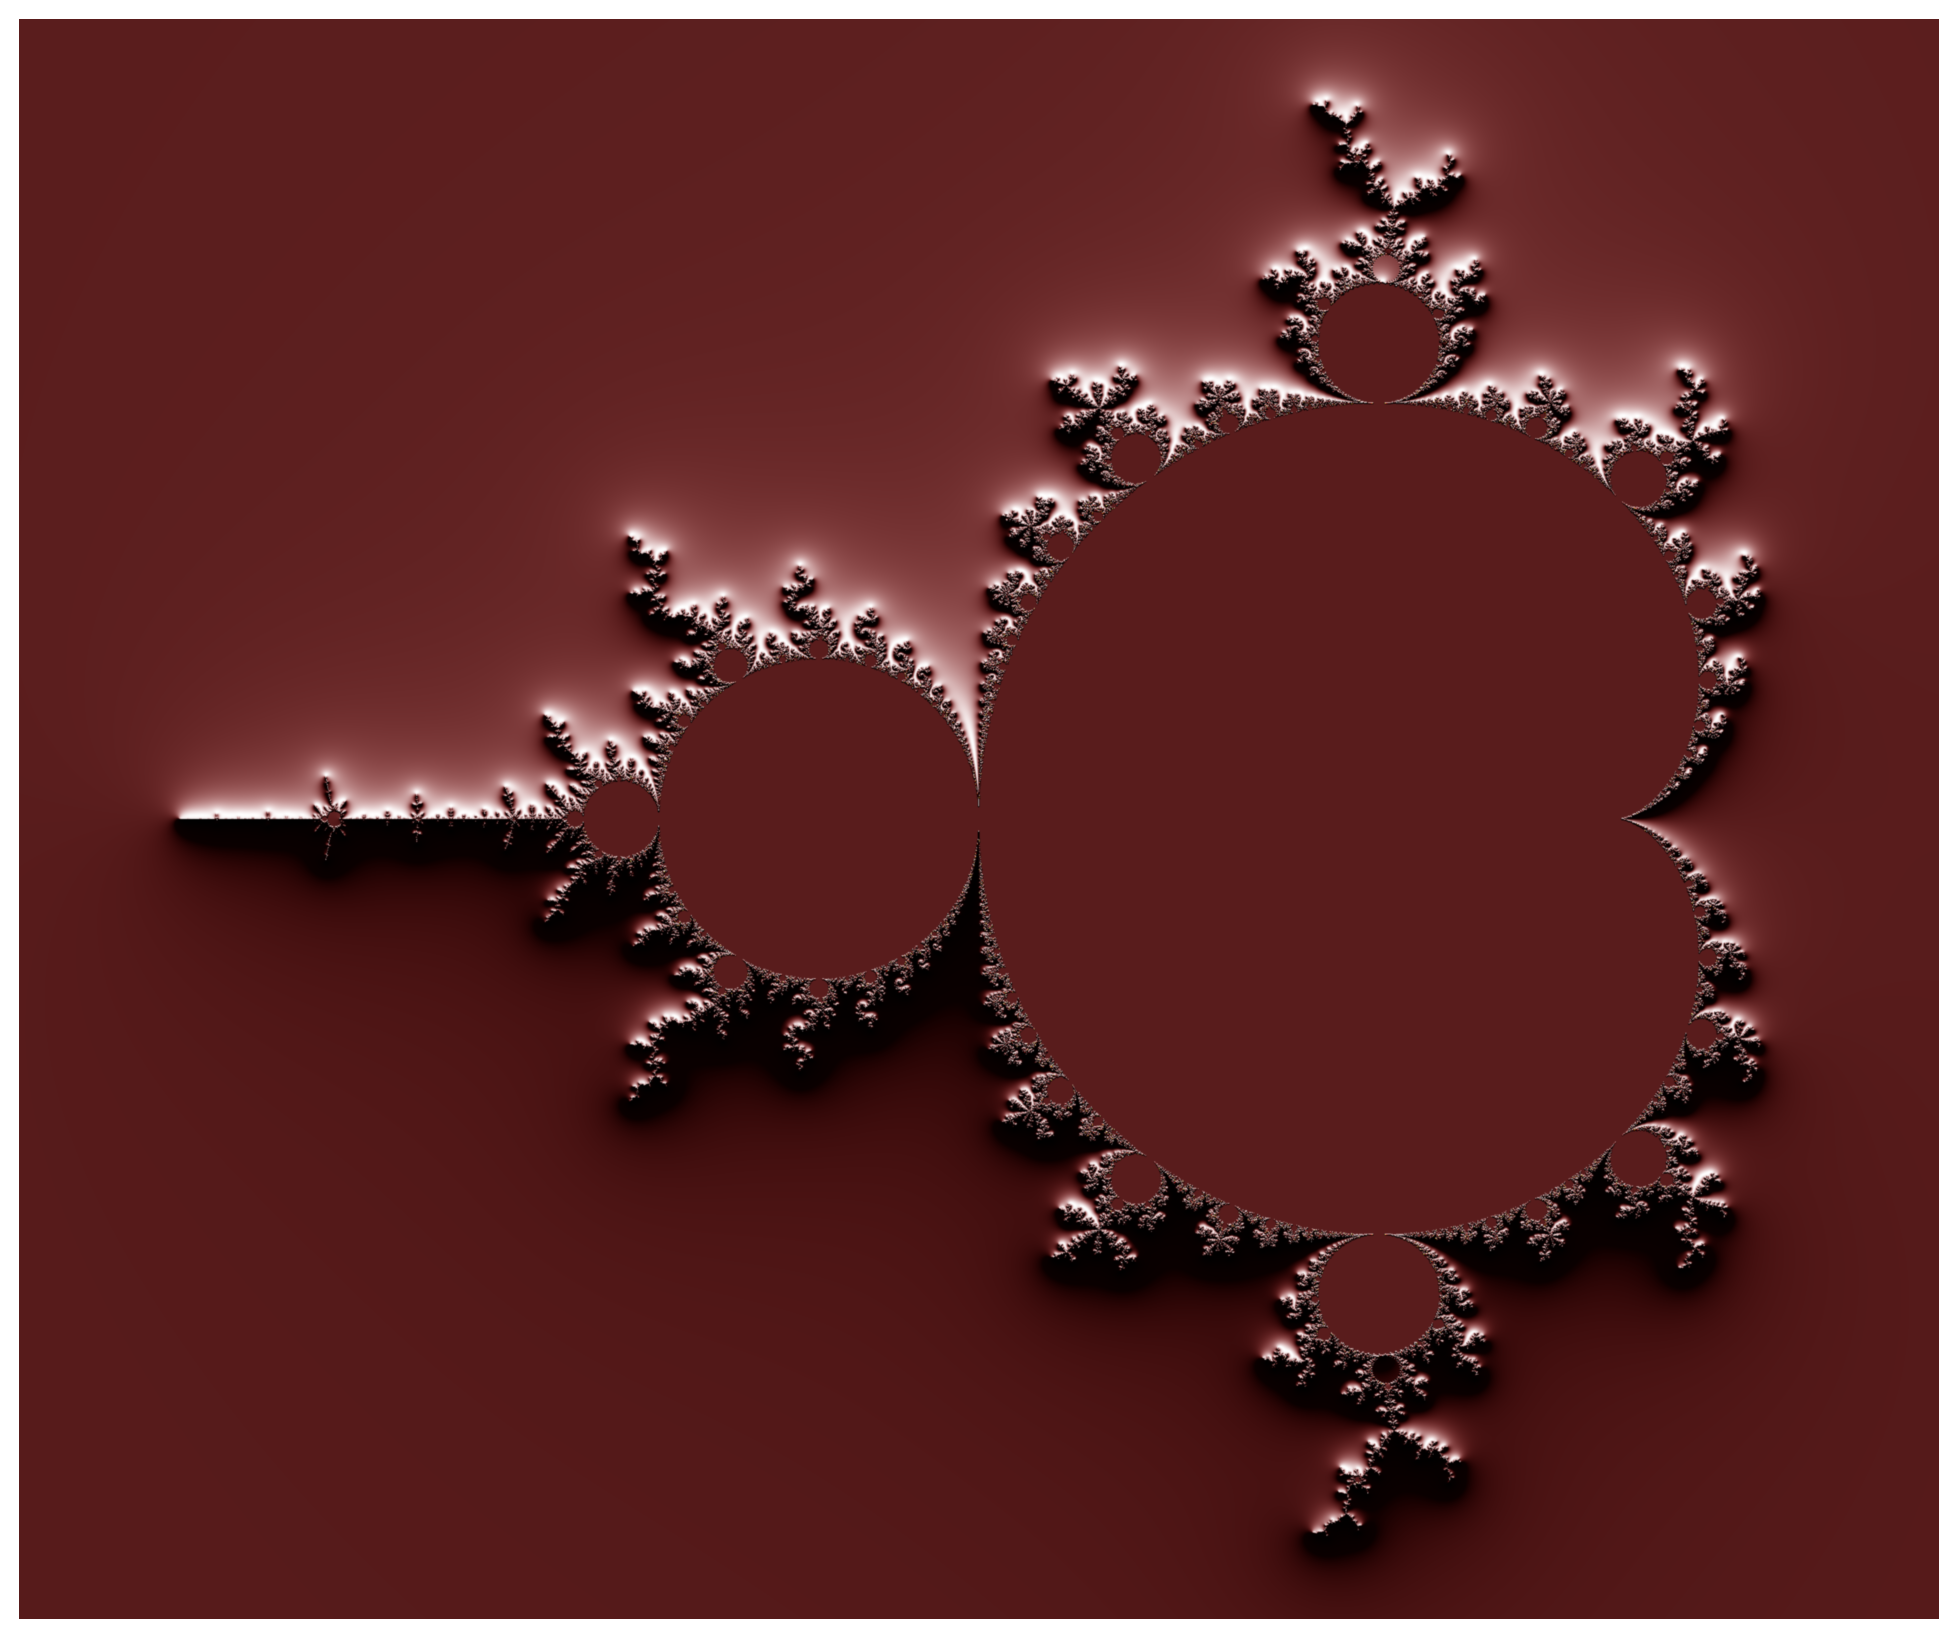
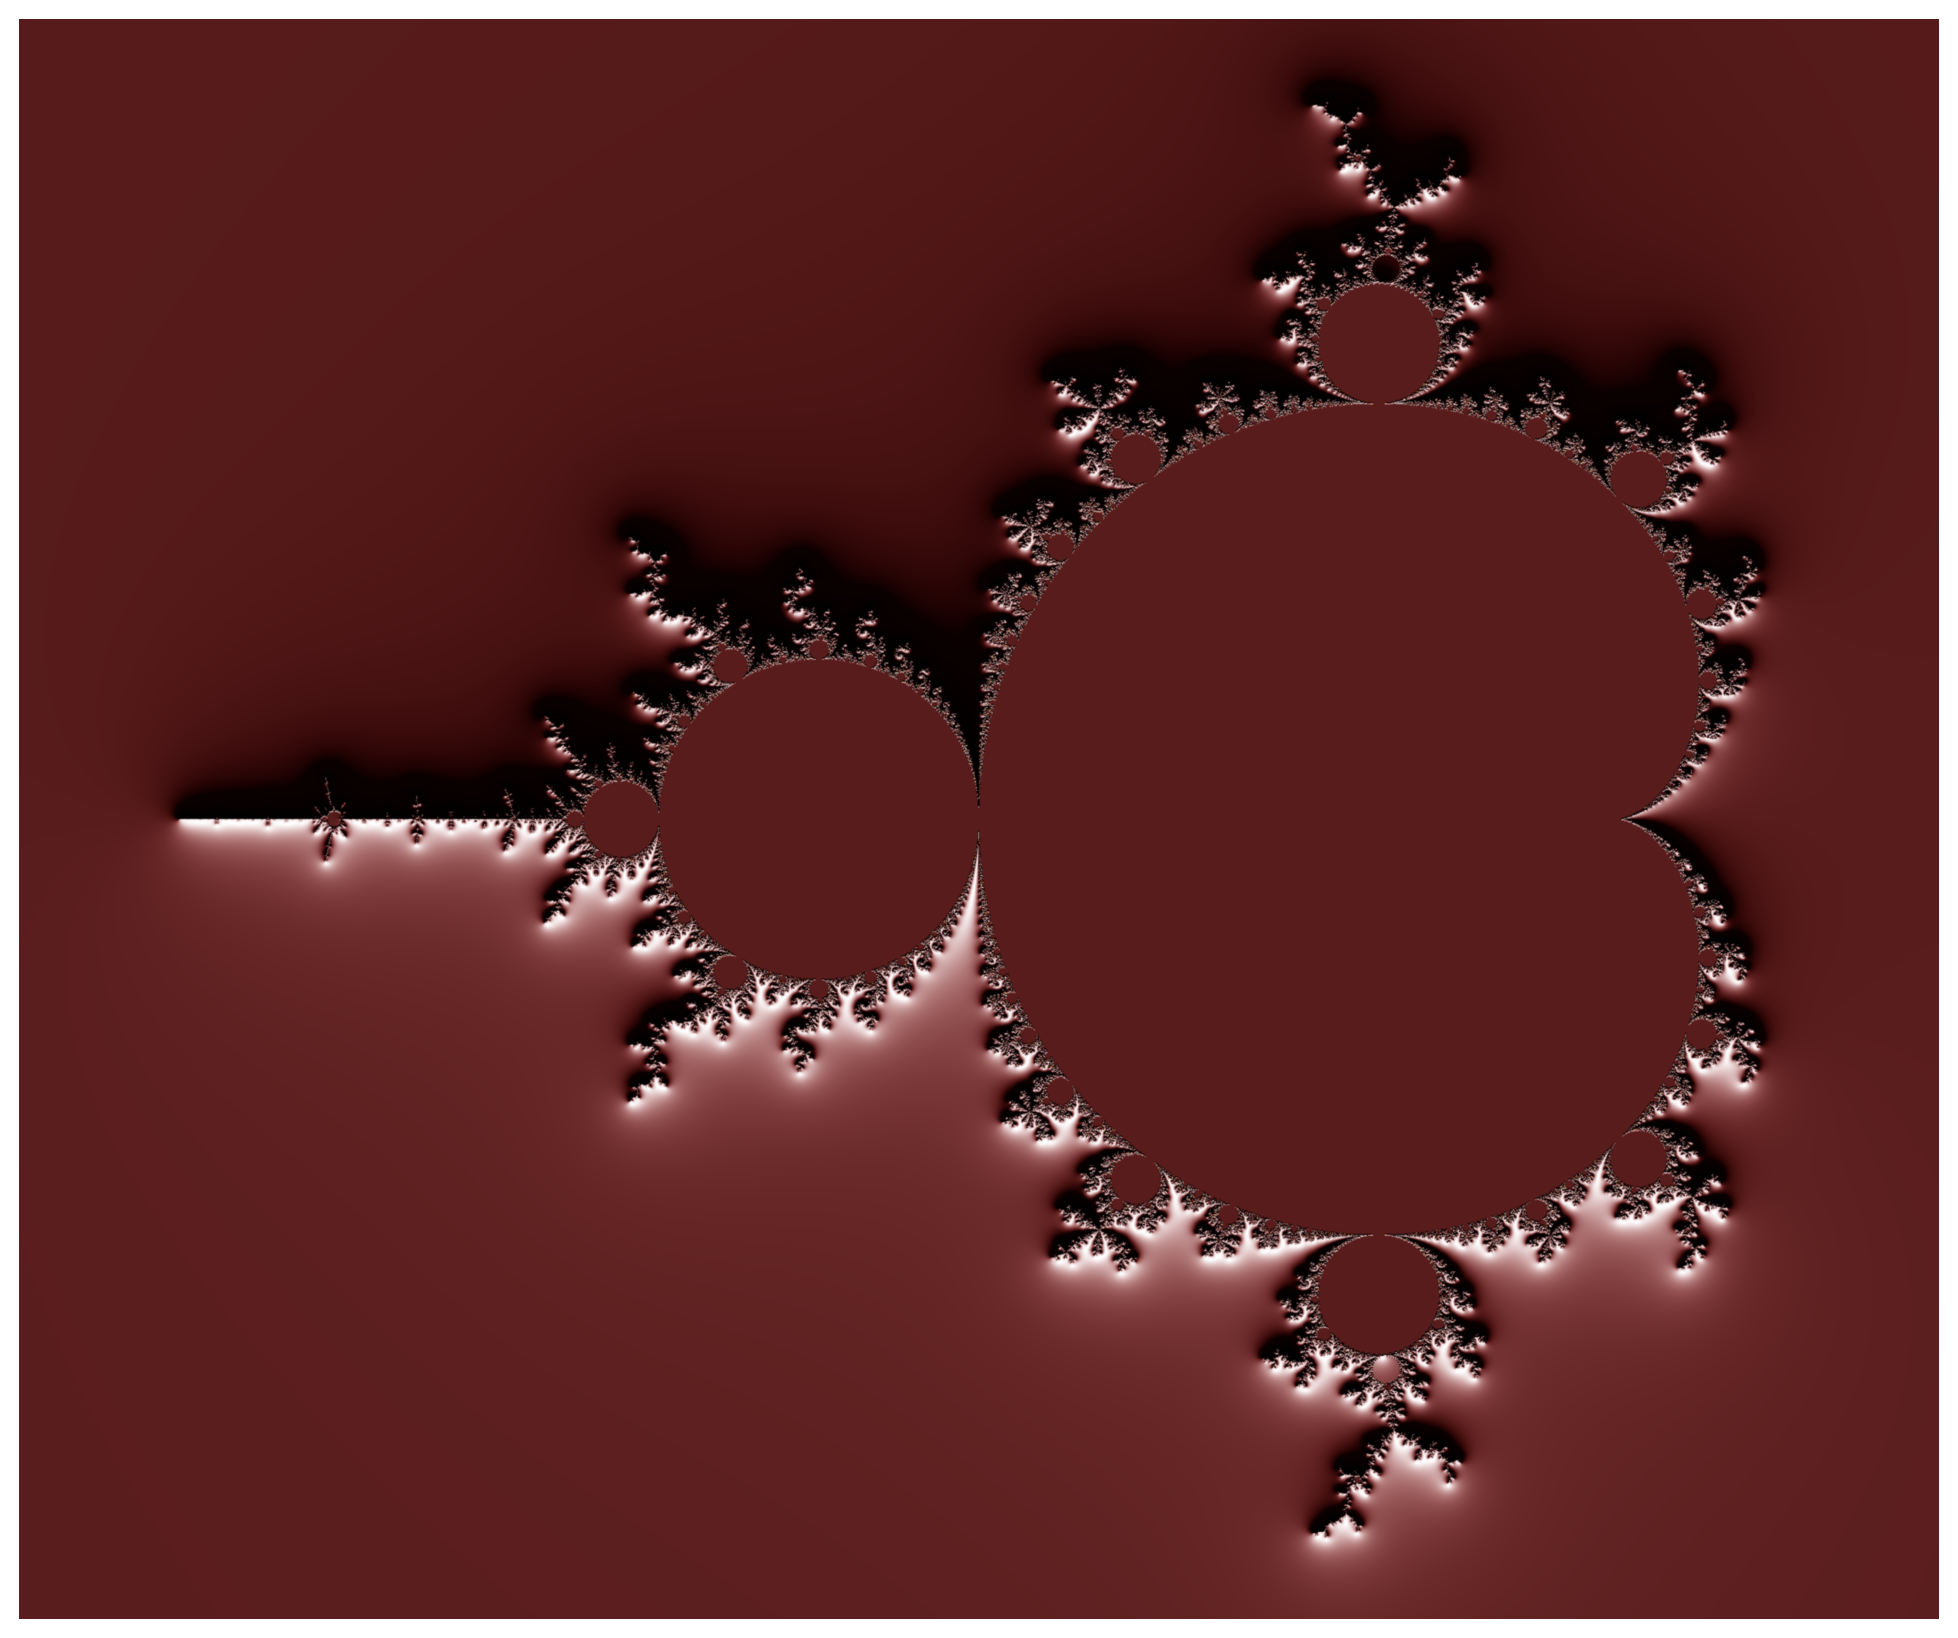
Video Ready

Changed region(s): [[0.0623, 0.0, 0.9346, 0.9963]]

diff --git a/mandelbrot_coloring.py b/mandelbrot_coloring.py
@@ -37,7 +37,7 @@ if __name__ == '__main__':
     width = 10
     height = 10*yn/xn
 
-    for i in range(170, 180):
+    for i in range(350, 360):
         fig = plt.figure(figsize=(width, height), dpi=dpi*2)
         ax = fig.add_axes([0.0, 0.0, 1.0, 1.0], frameon=False, aspect=1)
 
